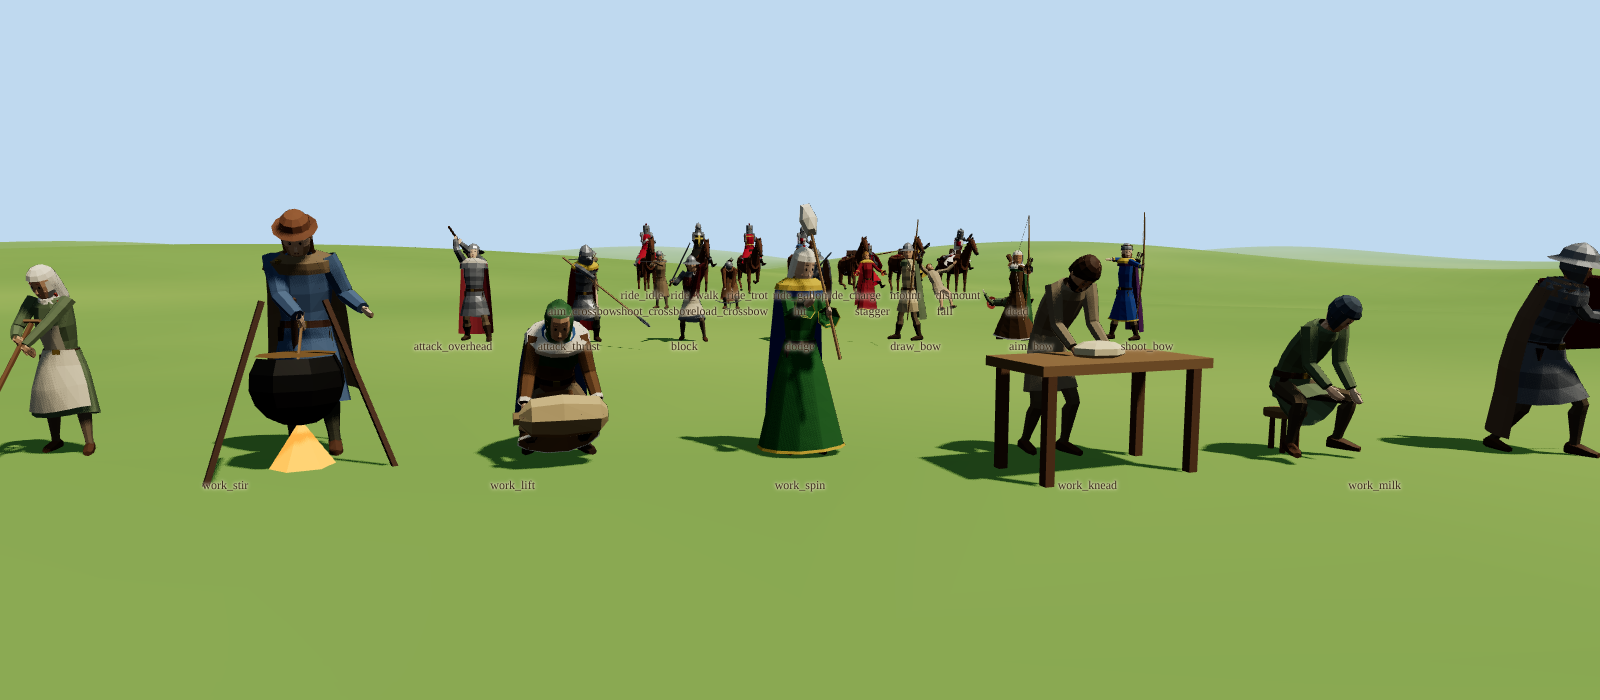
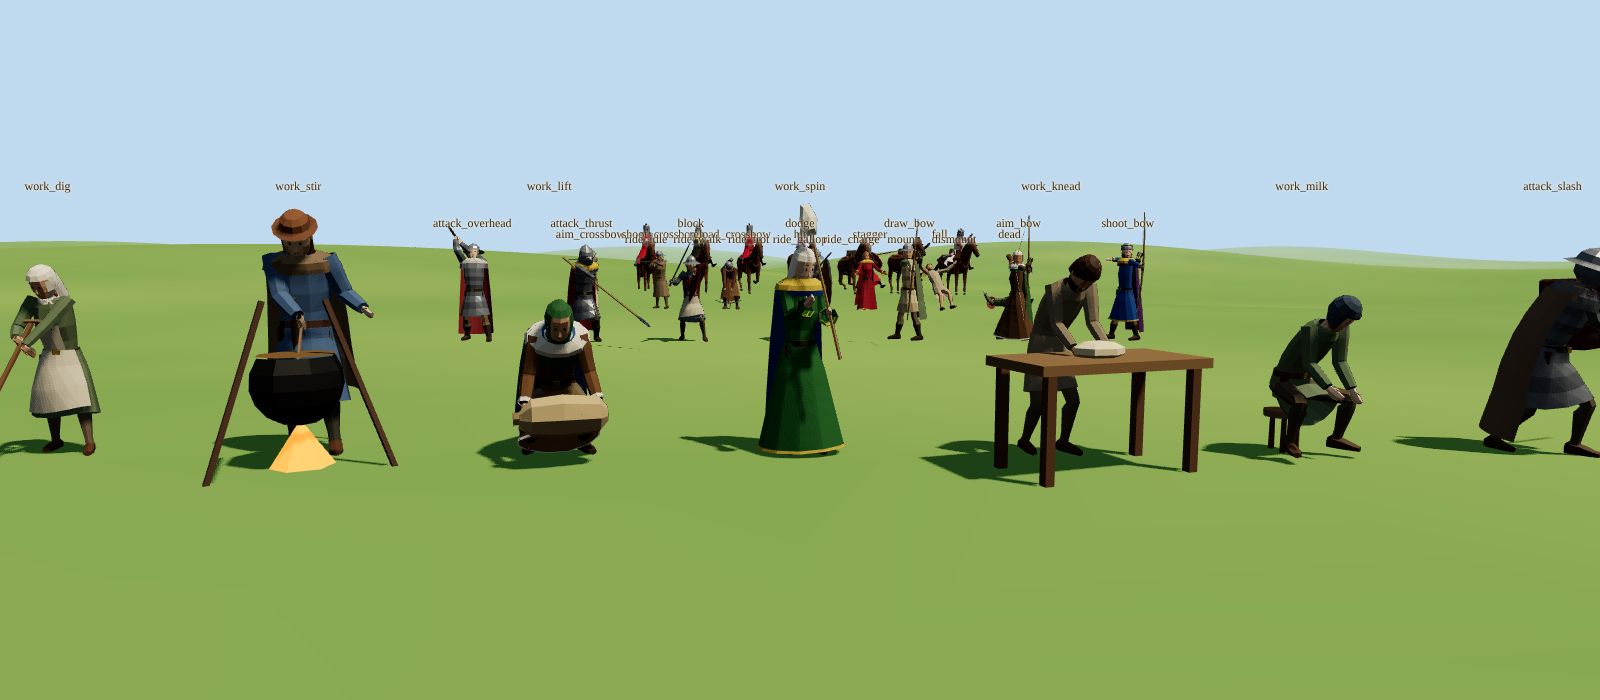
Characters: LODs, faster builders, polish and final screenshots
- Far LOD for bodies (segment scaling, no sub-pixel face detail) with hysteresis
  and its own small per-frame budget; LRU appearance cache
- Pooled MeshBuilder storage (2x faster appearance builds), no per-frame
  allocations in hold layers / locomotion / equipment change detection
- Silhouette-only highlight rims; quadruped tails stream behind at speed;
  rounder quadruped barrels, mane fins, bigger horns; refined sword slash,
  couched lance frame, smith tongs, shouldered tools, seated hands
- Gallery: solo inspection scene, highlight preview, per-row animation cameras,
  CPU benchmark mode and pick() hook; screenshot tool retries, process-group
  cleanup, benchmark/pick reporting
- Tests for LOD weight and ray-vs-capsule picking

Claude-Session: https://claude.ai/code/session_01P3U377cwAZKJY4Szz9RJL8

diff --git a/src/gallery/characters/scenes.ts b/src/gallery/characters/scenes.ts
@@ -30,6 +30,8 @@ export interface SceneOptions {
   animalAnim?: AnimalAnim | '';
   count?: number;
   animals?: number;
+  /** solo scene: subject description (URL params). */
+  solo?: { tier: RankTier; sex: Sex; age: number; culture: CultureId; animal?: AnimalKind; main?: HeldItem; off?: HeldItem; arm?: 'levy' | 'archer' | 'crossbow' | 'man_at_arms' | 'knight'; speed?: number; yaw?: number };
 }
 
 let nextId = 1;
@@ -262,12 +264,12 @@ export function actionScene(o: SceneOptions): SceneDef {
   // 1. smith at the anvil (x 0, z 0)
   {
     const look = peasant('m', 3);
-    look.clothing.apron = 0x5a3b26; look.clothing.headwear = 'none'; look.clothing.cloak = undefined; look.clothing.tunicStyle = 'short'; look.beard = 2; look.build = 0.8; look.hairStyle = 0;
+    look.clothing.apron = 0x5a3b26; look.clothing.headwear = 'none'; look.clothing.cloak = undefined; look.clothing.tunicStyle = 'short'; look.beard = 2; look.build = 0.8; look.hairStyle = 0; look.hair = 0x3a281c;
     const it = makeChar(look, 0, 0, 0, { anim: 'work_hammer', mainHand: 'hammer', offHand: 'tongs' });
     add(it);
     const a = P.anvil(); a.position.set(0.04, 0, 0.56); props.push(a);
     const f = P.forge(); f.position.set(-1.5, 0, -1.3); f.rotation.y = 0.5; props.push(f);
-    VIGNETTES.push({ name: 'smith', cam: { pos: [1.9, 1.7, 2.7], target: [0.05, 1.0, 0.3] } });
+    VIGNETTES.push({ name: 'smith', cam: { pos: [-1.95, 1.65, 2.55], target: [0.0, 1.0, 0.3] } });
   }
   // 2. mower in the wheat (x 8)
   {
@@ -310,10 +312,10 @@ export function actionScene(o: SceneOptions): SceneDef {
     const l1 = peasant('m', 3); armLook(rng, l1, 'man_at_arms'); l1.helmet = 'nasal';
     const l2 = peasant('m', 3); armLook(rng, l2, 'man_at_arms'); l2.helmet = 'kettle'; l2.armour = 'mail';
     l2.clothing.tunicStyle = 'surcoat'; l2.heraldry = heraldryFor(rng);
-    const a = makeChar(l1, 16, 0, 0, { anim: 'attack_slash', mainHand: 'sword', offHand: 'shield_round', animTime: 0.36 });
-    const b = makeChar(l2, 16.1, 1.7, Math.PI, { anim: 'block', mainHand: 'sword', offHand: 'shield_heater' });
+    const a = makeChar(l1, 16.1, 1.7, Math.PI, { anim: 'attack_slash', mainHand: 'sword', offHand: 'shield_round' });
+    const b = makeChar(l2, 16, 0, 0, { anim: 'block', mainHand: 'sword', offHand: 'shield_heater' });
     add(a); add(b);
-    VIGNETTES.push({ name: 'swordfight', cam: { pos: [19.4, 1.8, 0.9], target: [16.05, 1.05, 0.85] } });
+    VIGNETTES.push({ name: 'swordfight', cam: { pos: [19.3, 1.75, 1.2], target: [16.05, 1.1, 0.85] } });
   }
   // 6. the fallen (x 22)
   {
@@ -504,7 +506,8 @@ export function animalsScene(o: SceneOptions): SceneDef {
       const y = makeAnimal(kind, x - rowW[ri] * 0.32, z + (ri === 0 ? 1.0 : 0.7), Math.PI / 2, { anim, young: true, coat: it.coat });
       y.moveSpeed = it.moveSpeed;
       animals.push({ item: y, tick: (_t, dt) => { y.animTime += dt; }, subject: true });
-      labels.push({ text: kind, x, y: 0.02, z: z + (ri === 0 ? 1.7 : 1.25), small: true });
+      const top: Record<string, number> = { horse: 2.0, ox: 1.9, cow: 1.75, deer: 2.0, boar: 1.2, pig: 1.05, sheep: 1.0, goat: 1.15, wolf: 1.1, dog: 0.9, fox: 0.6, cat: 0.45, hare: 0.55, chicken: 0.55, goose: 0.95 };
+      labels.push({ text: kind, x, y: top[kind] ?? 1, z, small: true });
     });
   });
   const f2 = P.fence(24); f2.position.set(0, 0, -5.2); props.push(f2);
@@ -518,8 +521,43 @@ export function animalsScene(o: SceneOptions): SceneDef {
   };
 }
 
+// ------------------------------------------------------------------------------------------------ one subject (inspection, film strips)
+export function soloScene(o: SceneOptions): SceneDef {
+  resetIds();
+  const rng = new Rng(`solo-${o.seed}`);
+  const so = o.solo ?? { tier: 3 as RankTier, sex: 'm' as Sex, age: 30, culture: 'anglo' as CultureId };
+  const yaw = so.yaw ?? Math.PI / 2;
+  const chars: CharActor[] = [];
+  const animals: AnimalActor[] = [];
+  if (so.animal) {
+    const anim = o.animalAnim || 'idle';
+    const it = makeAnimal(so.animal, 0, 0, yaw, { anim, coat: coatFor(rng, so.animal) });
+    it.male = true;
+    it.moveSpeed = so.speed ?? (anim === 'walk' ? 1.2 : anim === 'trot' ? 3 : anim === 'run' ? 8 : 0);
+    animals.push({ item: it, tick: (_t, dt) => { it.animTime += dt; }, subject: true });
+  } else {
+    const look = generateLook(rng, { tier: so.tier, sex: so.sex, age: so.age, culture: so.culture });
+    if (so.arm) armLook(rng, look, so.arm);
+    const it = makeChar(look, 0, 0, yaw);
+    const anim = o.anim || 'idle';
+    applyAnim(it, anim);
+    if (o.items !== false) equipFor(it, anim);
+    if (so.main) it.mainHand = so.main;
+    if (so.off) it.offHand = so.off;
+    if (so.speed !== undefined) it.moveSpeed = so.speed;
+    if (it.mount && o.gait) it.mount.anim = o.gait;
+    chars.push({ item: it, tick: (_t, dt) => { it.animTime += dt; if (it.mount) it.mount.animTime += dt; }, subject: true });
+  }
+  return {
+    name: 'solo', chars, animals, props: [], labels: [],
+    camera: { pos: [0, 1.1, 4.2], target: [0, 0.85, 0] },
+    shadow: { x: 0, z: 0, r: 4 },
+  };
+}
+
 export function buildScene(name: string, o: SceneOptions): SceneDef {
   switch (name) {
+    case 'solo': return soloScene(o);
     case 'faces': return facesScene(o);
     case 'anims': return animsScene(o);
     case 'riders': return ridersScene(o);

diff --git a/src/gallery/characters-main.ts b/src/gallery/characters-main.ts
@@ -16,11 +16,11 @@ type LayerStats = { updateMs: number; animated: number; culled: number; built: n
 declare global {
   interface Window {
     __charsReady?: boolean;
-    __chars?: { stats(): Record<string, number>; frame(dt?: number): void; setCamera(p: number[], t: number[]): void };
+    __chars?: { stats(): Record<string, number>; frame(dt?: number): void; setCamera(p: number[], t: number[]): void; pick(nx: number, ny: number): { person: number; animal: number } };
   }
 }
 
-const SCENES = ['lineup', 'faces', 'anims', 'riders', 'action', 'crowd', 'animals'] as const;
+const SCENES = ['lineup', 'faces', 'anims', 'riders', 'action', 'crowd', 'animals', 'solo'] as const;
 
 export function start(root: AppRoot): void {
   const params = root.params;
@@ -44,6 +44,18 @@ export function start(root: AppRoot): void {
     items: params.get('items') !== '0',
     count: params.get('count') ? Number(params.get('count')) : undefined,
     animals: params.get('animals') ? Number(params.get('animals')) : undefined,
+    solo: {
+      tier: Number(params.get('tier') ?? 3) as 1,
+      sex: params.get('sex') === 'f' ? 'f' : 'm',
+      age: Number(params.get('age') ?? 30),
+      culture: (params.get('culture') ?? 'anglo') as 'anglo',
+      animal: (params.get('animal') ?? undefined) as undefined,
+      main: (params.get('main') ?? undefined) as undefined,
+      off: (params.get('off') ?? undefined) as undefined,
+      arm: (params.get('arm') ?? undefined) as undefined,
+      speed: params.get('speed') ? Number(params.get('speed')) : undefined,
+      yaw: params.get('yaw') ? Number(params.get('yaw')) : undefined,
+    },
   };
   let sceneName: string = params.get('scene') ?? 'lineup';
   let current: SceneDef | null = null;
@@ -106,6 +118,11 @@ export function start(root: AppRoot): void {
     if (!camParam || !VIGNETTES.find((x) => x.name === camParam)) stage.setShadowFocus(current.shadow.x, current.shadow.z, current.shadow.r);
     buildLabels();
     simTime = 0;
+    if (params.get('hl')) {
+      // preview highlight states: 0 none, 1 hover, 2 selected, 3 player
+      current.chars.forEach((c, i) => { c.item.highlight = (i % 4) as 0 | 1 | 2 | 3; });
+      current.animals.forEach((a, i) => { a.item.highlight = (i % 3) as 0 | 1 | 2; });
+    }
     refreshUi();
   }
 
@@ -160,7 +177,7 @@ export function start(root: AppRoot): void {
   function refreshUi(): void {
     panel.innerHTML = '<div style="font:bold 16px Georgia,serif;margin-bottom:4px;color:#6a1a1a">Millennia — People &amp; Beasts</div>';
     panel.appendChild(select('Scene', SCENES, sceneName, (v) => load(v)));
-    if (sceneName === 'lineup' || sceneName === 'faces') {
+    if (sceneName === 'lineup' || sceneName === 'faces' || sceneName === 'solo') {
       panel.appendChild(select('Animation', ['', ...ALL_ANIMS], opts.anim ?? '', (v) => { opts.anim = v as AnimState; load(sceneName); }));
     }
     if (sceneName === 'riders') {
@@ -229,6 +246,11 @@ export function start(root: AppRoot): void {
     stats: statsNow,
     frame: (dt = 1 / 30) => { step(dt); renderer.render(scene, camera); },
     setCamera: (p, t) => setCam(p, t),
+    pick: (nx, ny) => {
+      camera.updateMatrixWorld();
+      ray.setFromCamera(new THREE.Vector2(nx, ny), camera);
+      return { person: chars.pick(ray), animal: animals.pick(ray) };
+    },
   };
 
   if (shot) {
@@ -244,7 +266,8 @@ export function start(root: AppRoot): void {
       for (let i = 0; i < bench; i++) { step(1 / 60); cs.push(chars.stats.updateMs); as.push(animals.stats.updateMs); }
       const avg = (a: number[]): number => a.reduce((x, y) => x + y, 0) / a.length;
       const p95 = (a: number[]): number => [...a].sort((x, y) => x - y)[Math.floor(a.length * 0.95)];
-      benchStats = { benchFrames: bench, charAvg: avg(cs), charP95: p95(cs), animalAvg: avg(as), animalP95: p95(as) };
+      const med = (a: number[]): number => [...a].sort((x, y) => x - y)[Math.floor(a.length / 2)];
+      benchStats = { benchFrames: bench, charAvg: avg(cs), charMed: med(cs), charP95: p95(cs), animalAvg: avg(as), animalMed: med(as), animalP95: p95(as) };
     }
     renderer.render(scene, camera);
     placeLabels();

diff --git a/tests/assets/characters/characters.test.ts b/tests/assets/characters/characters.test.ts
@@ -12,6 +12,7 @@ import { createQuadState, quadEvaluate, quadFK, type QuadAnim } from '../../../s
 import { quadSpec } from '../../../src/assets/animals/kinds';
 import { birdDims, birdEvaluate, birdFK, buildBird, createBirdState } from '../../../src/assets/animals/birds';
 import { mulEulerT, setIdentity } from '../../../src/assets/characters/engine/affine';
+import { rayCapsule } from '../../../src/assets/characters/layer';
 
 const ANIMS: AnimState[] = [
   'idle', 'walk', 'run', 'sprint', 'carry_walk', 'sit', 'sleep', 'talk', 'eat', 'drink', 'pray', 'wave', 'kneel',
@@ -55,13 +56,35 @@ describe('character assets', () => {
           const g = buildHumanBody(look, humanDims(look));
           expect(g.vertexCount).toBeGreaterThan(300);
           expect(g.indexCount % 3).toBe(0);
-          for (let i = 0; i < g.indexCount; i++) expect(g.index[i]).toBeLessThan(g.vertexCount);
-          for (let i = 0; i < g.vertexCount; i++) expect(g.skin[i * 4]).toBeLessThan(HUMAN_BONES);
+          let maxIndex = 0, maxBone = 0, finitePos = true;
+          for (let i = 0; i < g.indexCount; i++) if (g.index[i] > maxIndex) maxIndex = g.index[i];
+          for (let i = 0; i < g.vertexCount; i++) {
+            maxBone = Math.max(maxBone, g.skin[i * 4], g.skin[i * 4 + 1]);
+            if (!Number.isFinite(g.position[i * 3] + g.position[i * 3 + 1] + g.position[i * 3 + 2])) finitePos = false;
+          }
+          expect(maxIndex).toBeLessThan(g.vertexCount);
+          expect(maxBone).toBeLessThan(HUMAN_BONES);
+          expect(finitePos).toBe(true);
           maxV = Math.max(maxV, g.vertexCount);
         }
       }
     }
     expect(maxV).toBeLessThan(6000);
+  }, 60000);
+
+  it('far LOD is much lighter than full detail', () => {
+    const rng = new Rng('lod');
+    const look = generateLook(rng, { tier: 6, sex: 'f', age: 30, culture: 'franc' });
+    const d = humanDims(look);
+    const full = buildHumanBody(look, d, 0), far = buildHumanBody(look, d, 1);
+    expect(far.indexCount).toBeLessThan(full.indexCount * 0.65);
+  });
+
+  it('ray vs capsule picking', () => {
+    const ro = { x: 0, y: 1, z: -5 } as unknown as import('three').Vector3;
+    const rd = { x: 0, y: 0, z: 1 } as unknown as import('three').Vector3;
+    expect(rayCapsule(ro, rd, 0, 0.3, 0, 0, 1.6, 0, 0.3)).toBeCloseTo(4.7, 1);
+    expect(rayCapsule(ro, rd, 2, 0.3, 0, 2, 1.6, 0, 0.3)).toBe(Infinity);
   });
 
   it('builds every held item', () => {
@@ -96,7 +119,7 @@ describe('character assets', () => {
         if (!finite(bones, bones.length)) throw new Error(`NaN in ${anim} at frame ${f}`);
       }
     }
-  });
+  }, 60000);
 
   it('animates every animal kind and animation without NaNs', () => {
     const anims: AnimalAnim[] = ['idle', 'graze', 'walk', 'trot', 'run', 'lie', 'sleep', 'eat', 'attack', 'hit', 'dead'];
@@ -126,5 +149,5 @@ describe('character assets', () => {
         if (!finite(st.world, 13 * 12)) throw new Error(`NaN in bird ${a}`);
       }
     }
-  });
+  }, 60000);
 });

diff --git a/src/assets/animals/quadAnim.ts b/src/assets/animals/quadAnim.ts
@@ -122,8 +122,9 @@ function gaitPose(out: Float32Array, st: QuadState, q: QuadDims, anim: QuadAnim,
   out[QB.neck2 * 3] = g.neck * 0.5 * D * nod;
   out[QB.head * 3] = -(out[0] + out[QB.neck1 * 3]) * 0.7;
   // tail streams with speed
-  out[QB.tail1 * 3] = -Math.min(0.6, v * 0.05) + 0.08 * Math.sin(TAU * ph);
-  out[QB.tail2 * 3] = -Math.min(0.3, v * 0.03) + 0.1 * Math.sin(TAU * ph - 0.8);
+  // tails hang along -y: +X lifts them backwards (streaming behind at speed)
+  out[QB.tail1 * 3] = Math.min(0.95, v * 0.07) + 0.08 * Math.sin(TAU * ph);
+  out[QB.tail2 * 3] = Math.min(0.35, v * 0.03) + 0.12 * Math.sin(TAU * ph - 0.8);
   out[QB.tail1 * 3 + 2] = 0.1 * Math.sin(TAU * ph);
   // ears forward when moving fast
   out[QB.earL * 3] = anim === 'run' ? 0.25 : 0; out[QB.earR * 3] = out[QB.earL * 3];
@@ -143,6 +144,8 @@ function idleQuad(out: Float32Array, st: QuadState, q: QuadDims, dt: number): vo
   const sw = Math.max(0, noise(t * 0.4 + 2, st.seed + 5));
   out[QB.tail1 * 3 + 2] = Math.sin(t * 6) * sw * 0.5;
   out[QB.tail2 * 3 + 2] = Math.sin(t * 6 - 1) * sw * 0.6;
+  // a soft curve rather than a rigid rod
+  out[QB.tail1 * 3] = 0.12; out[QB.tail2 * 3] = -0.22;
   // ear flicks
   const ef = noise(t * 0.9, st.seed + 9);
   out[QB.earL * 3] = ef > 0.6 ? (ef - 0.6) * 1.2 : 0;
@@ -257,7 +260,7 @@ function attackQuad(out: Float32Array, st: QuadState, q: QuadDims, dt: number): 
     out[QB.hl1 * 3] = (-25 * crouch + 20 * spring) * D; out[QB.hr1 * 3] = out[QB.hl1 * 3];
     out[QB.hl2 * 3] = (-50 * crouch) * D; out[QB.hr2 * 3] = out[QB.hl2 * 3];
     out[QB.earL * 3] = 0.5; out[QB.earR * 3] = 0.5;
-    out[QB.tail1 * 3] = -0.3;
+    out[QB.tail1 * 3] = 0.6;
   } else if (style === 'charge' || style === 'butt') {
     // head down, rush/thrust, upward toss
     const lower = smooth(Math.min(1, t / 0.3));
@@ -268,7 +271,7 @@ function attackQuad(out: Float32Array, st: QuadState, q: QuadDims, dt: number): 
     out[RZ] = (0.18 * smooth(Math.max(0, Math.min(1, (t - 0.3) / 0.2))) * (1 - toss * 0.5)) * q.scale;
     out[0] = (4 * lower - 6 * toss) * D;
     out[QB.fl1 * 3] = (-15 * toss) * D; out[QB.hl1 * 3] = 12 * lower * D; out[QB.hr1 * 3] = 12 * lower * D;
-    out[QB.tail1 * 3] = -0.4;
+    out[QB.tail1 * 3] = 0.5;
   } else if (style === 'rear') {
     rearQuad(out, st, q, t * T);
   } else {

diff --git a/src/assets/characters/human/clips.ts b/src/assets/characters/human/clips.ts
@@ -209,13 +209,14 @@ const SPECS: Record<string, ClipDef> = {
   },
   // ------------------------------------------------------------------ combat
   attack_slash: {
-    dur: 1.0, loop: true, stance: GUARD_STANCE, base: GUARD, ikLAuto: true,
+    dur: 1.1, loop: true, stance: GUARD_STANCE, base: GUARD, ikLAuto: true,
     keys: [
       { t: 0, p: {} },
-      { t: 0.28, p: { root: [3, -30, 0], spine: [2, -14, 0], chest: [0, -24, 0], uaR: [-88, -62, -42], faR: [-74, 0, 0], handR: [-30, 0, -40], head: [-3, 18, 0] } },
-      { t: 0.42, p: { root: [6, 6, 0], spine: [8, 12, 0], chest: [6, 24, 0], uaR: [-86, 46, -22], faR: [-16, 0, 0], handR: [30, 0, 40], r: [0, -0.04, 0.035], head: [0, -6, 0] } },
-      { t: 0.56, p: { chest: [8, 32, 0], uaR: [-62, 66, -14], faR: [-22, 0, 0], handR: [48, 0, 34] } },
-      { t: 1.0, p: { ...GUARD } },
+      { t: 0.3, p: { root: [3, -32, 0], spine: [0, -14, 0], chest: [-4, -26, 0], uaR: [-118, -50, -38], faR: [-72, 0, 0], handR: [-46, 0, -40], head: [-4, 20, 0], r: [0, -0.025, -0.01] } },
+      { t: 0.41, p: { root: [5, -6, 0], spine: [6, 2, 0], chest: [4, 8, 0], uaR: [-84, 18, -30], faR: [-28, 0, 0], handR: [18, 0, 36], r: [0, -0.04, 0.03], head: [0, 2, 0] } },
+      { t: 0.5, p: { root: [6, 10, 0], spine: [10, 10, 0], chest: [8, 28, 0], uaR: [-58, 62, -16], faR: [-16, 0, 0], handR: [52, 0, 48], r: [0, -0.05, 0.045], head: [2, -10, 0] } },
+      { t: 0.68, p: { chest: [8, 30, 0], uaR: [-54, 64, -16], handR: [56, 0, 50] } },
+      { t: 1.1, p: { ...GUARD } },
     ],
   },
   attack_overhead: {
@@ -485,7 +486,7 @@ const SPECS: Record<string, ClipDef> = {
   },
   ride_charge: {
     dur: 2, loop: true, riding: true, ispace: 'ground', special: 'couch',
-    base: { ...RIDE, r: [0, 0.02, 0.01], spine: [16, 0, 0], chest: [8, 4, 0], neck: [-8, 0, 0], head: [-12, -4, 0],
+    base: { ...RIDE, r: [0, 0.02, 0.01], spine: [11, 0, 0], chest: [5, 4, 0], neck: [-6, 0, 0], head: [-10, -4, 0],
       uaL: [-42, -22, 14], faL: [-72, 10, 0], thL: [-34, 6, 33], thR: [-34, -6, -33], shL: [24, 0, 0], shR: [24, 0, 0],
       ip: [-0.105, 0.745, 0.13], ir: [-2, 9, 0], ch: { ifw: 1, ikR: 1 } },
     keys: [{ t: 0, p: {} }],

diff --git a/src/assets/animals/quadruped.ts b/src/assets/animals/quadruped.ts
@@ -155,14 +155,17 @@ export function buildQuadruped(q: QuadDims, tack?: TackOpts): GeometryData {
   b.push().translate(0, bodyY, 0).rotate(Math.PI / 2, 0, 0);
   // after Rx(+90°): loft y → +z (forward), ring z → -y (down), ring x → x
   const ring = (z: number, rx: number, ry: number, cy: number, c?: number, bind?: Bind): Ring => ({ y: z, rx, rz: ry, z: -cy, c, b: bind });
+  // ring "back" (theta = PI → world up) raises the topline at the withers; rounded rump and breast
   const bodyRings: Ring[] = [
-    ring(-len * 0.56, bw * 0.24, bh * 0.22, bh * 0.12 + rumpY * 0.5, coat, QB.body),
-    ring(-len * 0.47, bw * 0.43, bh * 0.42, bh * 0.08 + rumpY * 0.5, coat, QB.body),
-    ring(-len * 0.3, bw * 0.5, bh * 0.5, bh * 0.03 + rumpY * 0.3, coat, QB.body),
-    ring(-len * 0.05, bw * 0.52, bh * 0.52, 0, coat, QB.body),
-    ring(len * 0.2, bw * 0.5, bh * 0.52, bh * 0.03 + hump * 0.4, coat, [QB.body, QB.chest, 0.5]),
-    ring(len * 0.4, bw * 0.44, bh * 0.5, bh * 0.08 + hump, coat, QB.chest),
-    ring(len * 0.53, bw * 0.3, bh * 0.36, bh * 0.1 + hump * 0.6, coat, QB.chest),
+    ring(-len * 0.575, bw * 0.18, bh * 0.18, bh * 0.15 + rumpY * 0.5, coat, QB.body),
+    ring(-len * 0.535, bw * 0.36, bh * 0.36, bh * 0.1 + rumpY * 0.5, coat, QB.body),
+    ring(-len * 0.45, bw * 0.47, bh * 0.47, bh * 0.07 + rumpY * 0.45, coat, QB.body),
+    ring(-len * 0.28, bw * 0.5, bh * 0.49, bh * 0.06 + rumpY * 0.3, coat, QB.body),
+    ring(-len * 0.04, bw * 0.53, bh * 0.53, 0, coat, QB.body),
+    ring(len * 0.2, bw * 0.51, bh * 0.53, bh * 0.03 + hump * 0.4, coat, [QB.body, QB.chest, 0.5]),
+    { ...ring(len * 0.38, bw * 0.46, bh * 0.51, bh * 0.07 + hump, coat, QB.chest), back: bh * 0.07 },
+    ring(len * 0.5, bw * 0.37, bh * 0.44, bh * 0.1 + hump * 0.6, coat, QB.chest),
+    ring(len * 0.565, bw * 0.2, bh * 0.26, bh * 0.12 + hump * 0.3, coat, QB.chest),
   ];
   if (s.wool) for (const r of bodyRings) { r.rx *= 1.12; r.rz *= 1.1; }
   b.color(coat).loft(bodyRings, { seg: 10, capStart: true, capEnd: true, phase: Math.PI / 10 });

diff --git a/src/assets/characters/human/locomotion.ts b/src/assets/characters/human/locomotion.ts
@@ -170,7 +170,7 @@ export function locomotionPose(out: Float32Array, st: LocoState, d: HumanDims, g
   out[2] = rollAmp * Math.cos(TAU * (ph - duty / 2));     // hip drop
 
   // ---- spine / chest / head ----
-  const lean = gait === 'sprint' ? 16 : gait === 'run' ? 9 : gait === 'carry' ? 3 : 3 + Math.max(0, speed - 1.2) * 3;
+  const lean = gait === 'sprint' ? 20 : gait === 'run' ? 12 : gait === 'carry' ? 3 : 3 + Math.max(0, speed - 1.2) * 3;
   const twist = (running ? 13 : 9) * D * amp * kVar;
   out[HB.spine * 3] = lean * 0.6 * D + d.elder * 10 * D;
   out[HB.chest * 3] = lean * 0.4 * D + d.elder * 7 * D + (running ? 2 * D * Math.cos(TAU * 2 * ph) : 0);
@@ -183,14 +183,16 @@ export function locomotionPose(out: Float32Array, st: LocoState, d: HumanDims, g
   out[HB.head * 3 + 1] = -twist * 0.45 * cyc;
 
   // ---- arms (free swing; hold layers may override) ----
-  const swingA = (gait === 'sprint' ? 58 : gait === 'run' ? 42 : gait === 'carry' ? 6 : 16 + Math.max(0, speed - 1) * 9) * D * amp * kVar * (1 - d.elder * 0.4);
+  const swingA = (gait === 'sprint' ? 60 : gait === 'run' ? 46 : gait === 'carry' ? 6 : 21 + Math.max(0, speed - 1) * 9) * D * amp * kVar * (1 - d.elder * 0.4);
   const elbow = (gait === 'sprint' ? 88 : gait === 'run' ? 78 : 14) * D;
   const lag = 0.04;
   const ca = Math.cos(TAU * (ph - lag));
   const abd = (running ? 10 : 6) * D;
-  out[HB.uaL * 3] = swingA * ca;
+  // arms reach a little further back than forward (hands pass the hips)
+  const back = running ? 1.25 : 1.1;
+  out[HB.uaL * 3] = swingA * ca * (ca > 0 ? back : 1);
   out[HB.uaL * 3 + 2] = abd;
-  out[HB.uaR * 3] = -swingA * ca;
+  out[HB.uaR * 3] = -swingA * ca * (ca < 0 ? back : 1);
   out[HB.uaR * 3 + 2] = -abd;
   const elbowExtra = (running ? 14 : 16) * D;
   out[HB.faL * 3] = -(elbow + elbowExtra * Math.max(0, -ca));

diff --git a/src/assets/characters/layer.ts b/src/assets/characters/layer.ts
@@ -64,6 +64,7 @@ const _v = new THREE.Vector3();
 const HUMAN_TEX_BONES = HUMAN_BONES;
 /** Far-LOD switch distances (m): out beyond LOD_OUT, back in under LOD_IN. */
 const LOD_OUT = 32, LOD_IN = 27;
+const GEO_CACHE_MAX = 900;
 
 /** Appearance of the body chunk (everything that only changes with the look). */
 function buildBodyChunk(look: CharacterLook, lod: 0 | 1): GeometryData {
@@ -131,12 +132,19 @@ export function createCharacterLayer(palette: Palette): CharacterLayer {
   /** Tunables (not part of the CharacterLayer contract): time budget for building new appearances per frame. */
   const options = { buildBudgetMs: 4, lodBudgetMs: 1, lod: true, animLod: true };
 
+  /** LRU cache of built appearances (≈25–50 KB each); keeps both LODs of everyone nearby. */
   function cacheGet(key: string, make: () => GeometryData): GeometryData {
     let g = geoCache.get(key);
-    if (!g) {
-      g = make();
-      if (geoCache.size > 600) geoCache.clear();
+    if (g) {
+      geoCache.delete(key); // refresh recency
       geoCache.set(key, g);
+      return g;
+    }
+    g = make();
+    geoCache.set(key, g);
+    while (geoCache.size > GEO_CACHE_MAX) {
+      const oldest = geoCache.keys().next().value as string;
+      geoCache.delete(oldest);
     }
     return g;
   }

diff --git a/src/assets/characters/engine/crowd.ts b/src/assets/characters/engine/crowd.ts
@@ -119,11 +119,12 @@ const FRAG_EMISSIVE = /* glsl */`
   if ( crowdFlagI == 7 ) { totalEmissiveRadiance += diffuseColor.rgb * 1.6; diffuseColor.rgb *= 0.2; }
   float crowdHl = vCrowdParams.x;
   if ( crowdHl > 0.5 ) {
+    // silhouette rim: only faces turned away from the viewer glow
     float crowdRim = 1.0 - saturate( dot( normal, normalize( vViewPosition ) ) );
-    crowdRim = crowdRim * crowdRim * ( 3.0 - 2.0 * crowdRim );
-    vec3 crowdHc = crowdHl < 1.5 ? vec3( 1.0, 0.92, 0.75 ) : ( crowdHl < 2.5 ? vec3( 1.0, 0.72, 0.22 ) : vec3( 0.85, 0.8, 0.55 ) );
-    float crowdK = crowdHl < 1.5 ? 0.55 : ( crowdHl < 2.5 ? 0.9 : 0.35 );
-    totalEmissiveRadiance += crowdHc * ( crowdRim * crowdK + 0.04 * crowdK );
+    crowdRim = smoothstep( 0.45, 0.95, crowdRim );
+    vec3 crowdHc = crowdHl < 1.5 ? vec3( 1.0, 0.94, 0.8 ) : ( crowdHl < 2.5 ? vec3( 1.0, 0.74, 0.25 ) : vec3( 0.9, 0.82, 0.55 ) );
+    float crowdK = crowdHl < 1.5 ? 0.7 : ( crowdHl < 2.5 ? 1.2 : 0.45 );
+    totalEmissiveRadiance += crowdHc * crowdRim * crowdK;
   }
   // per-actor tint/flash (params.y: hit flash, params.z: darken for dead/night ghosts)
   totalEmissiveRadiance += vec3( 0.6, 0.12, 0.08 ) * vCrowdParams.y;
